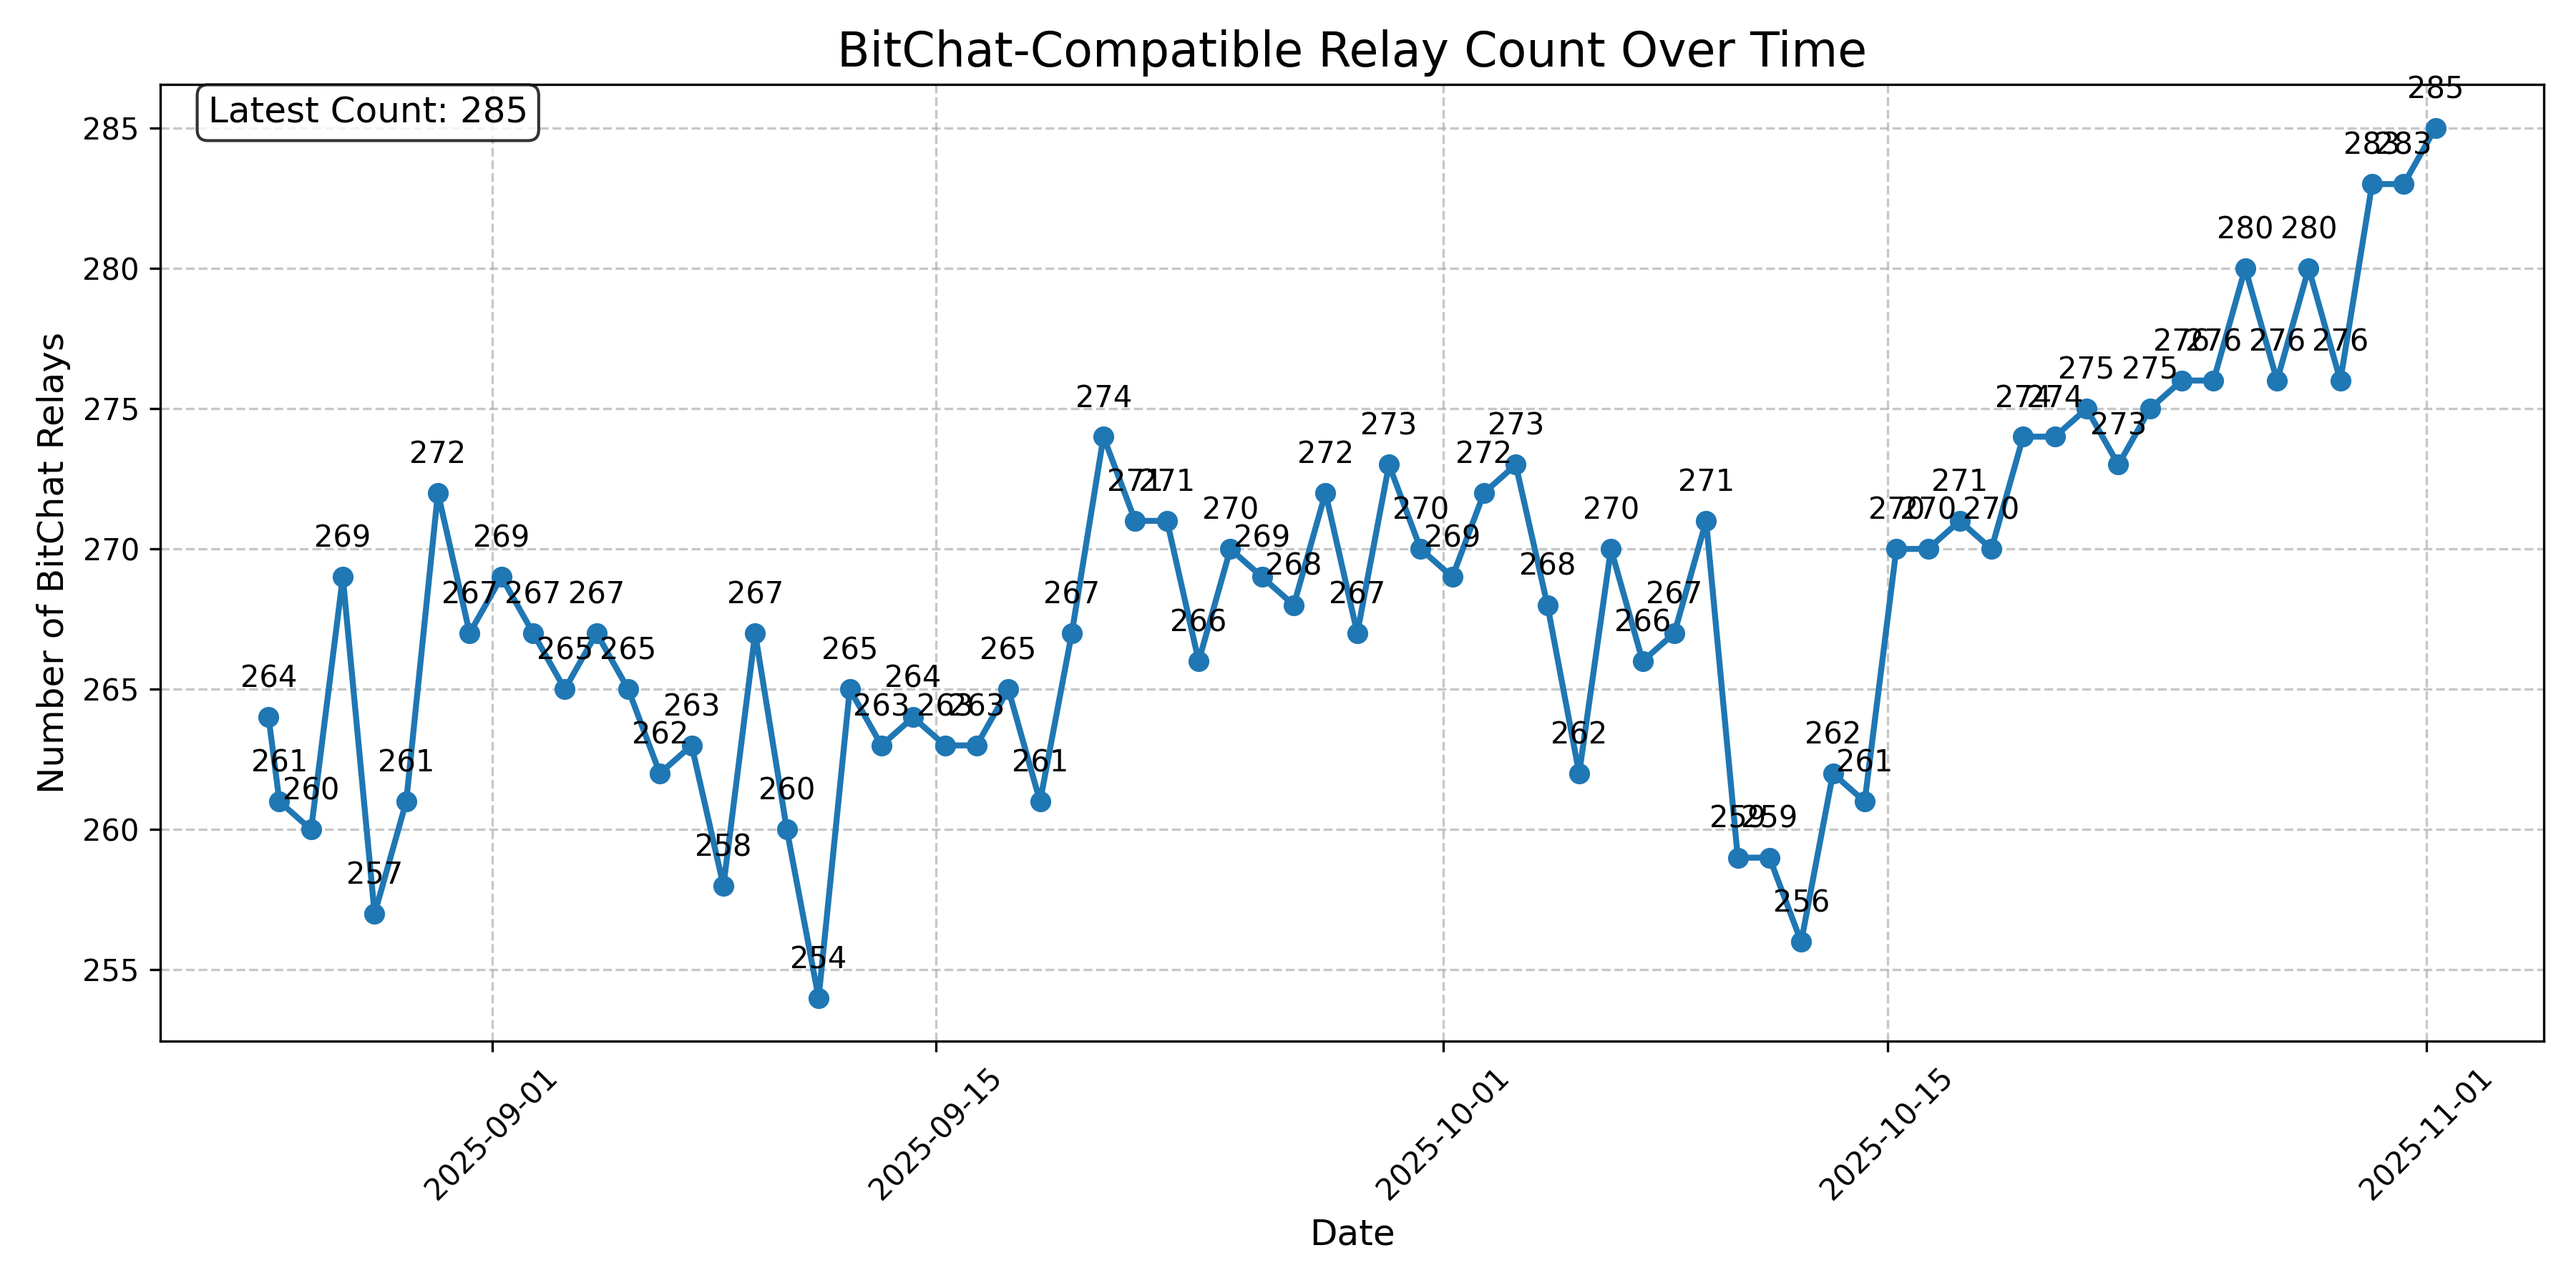
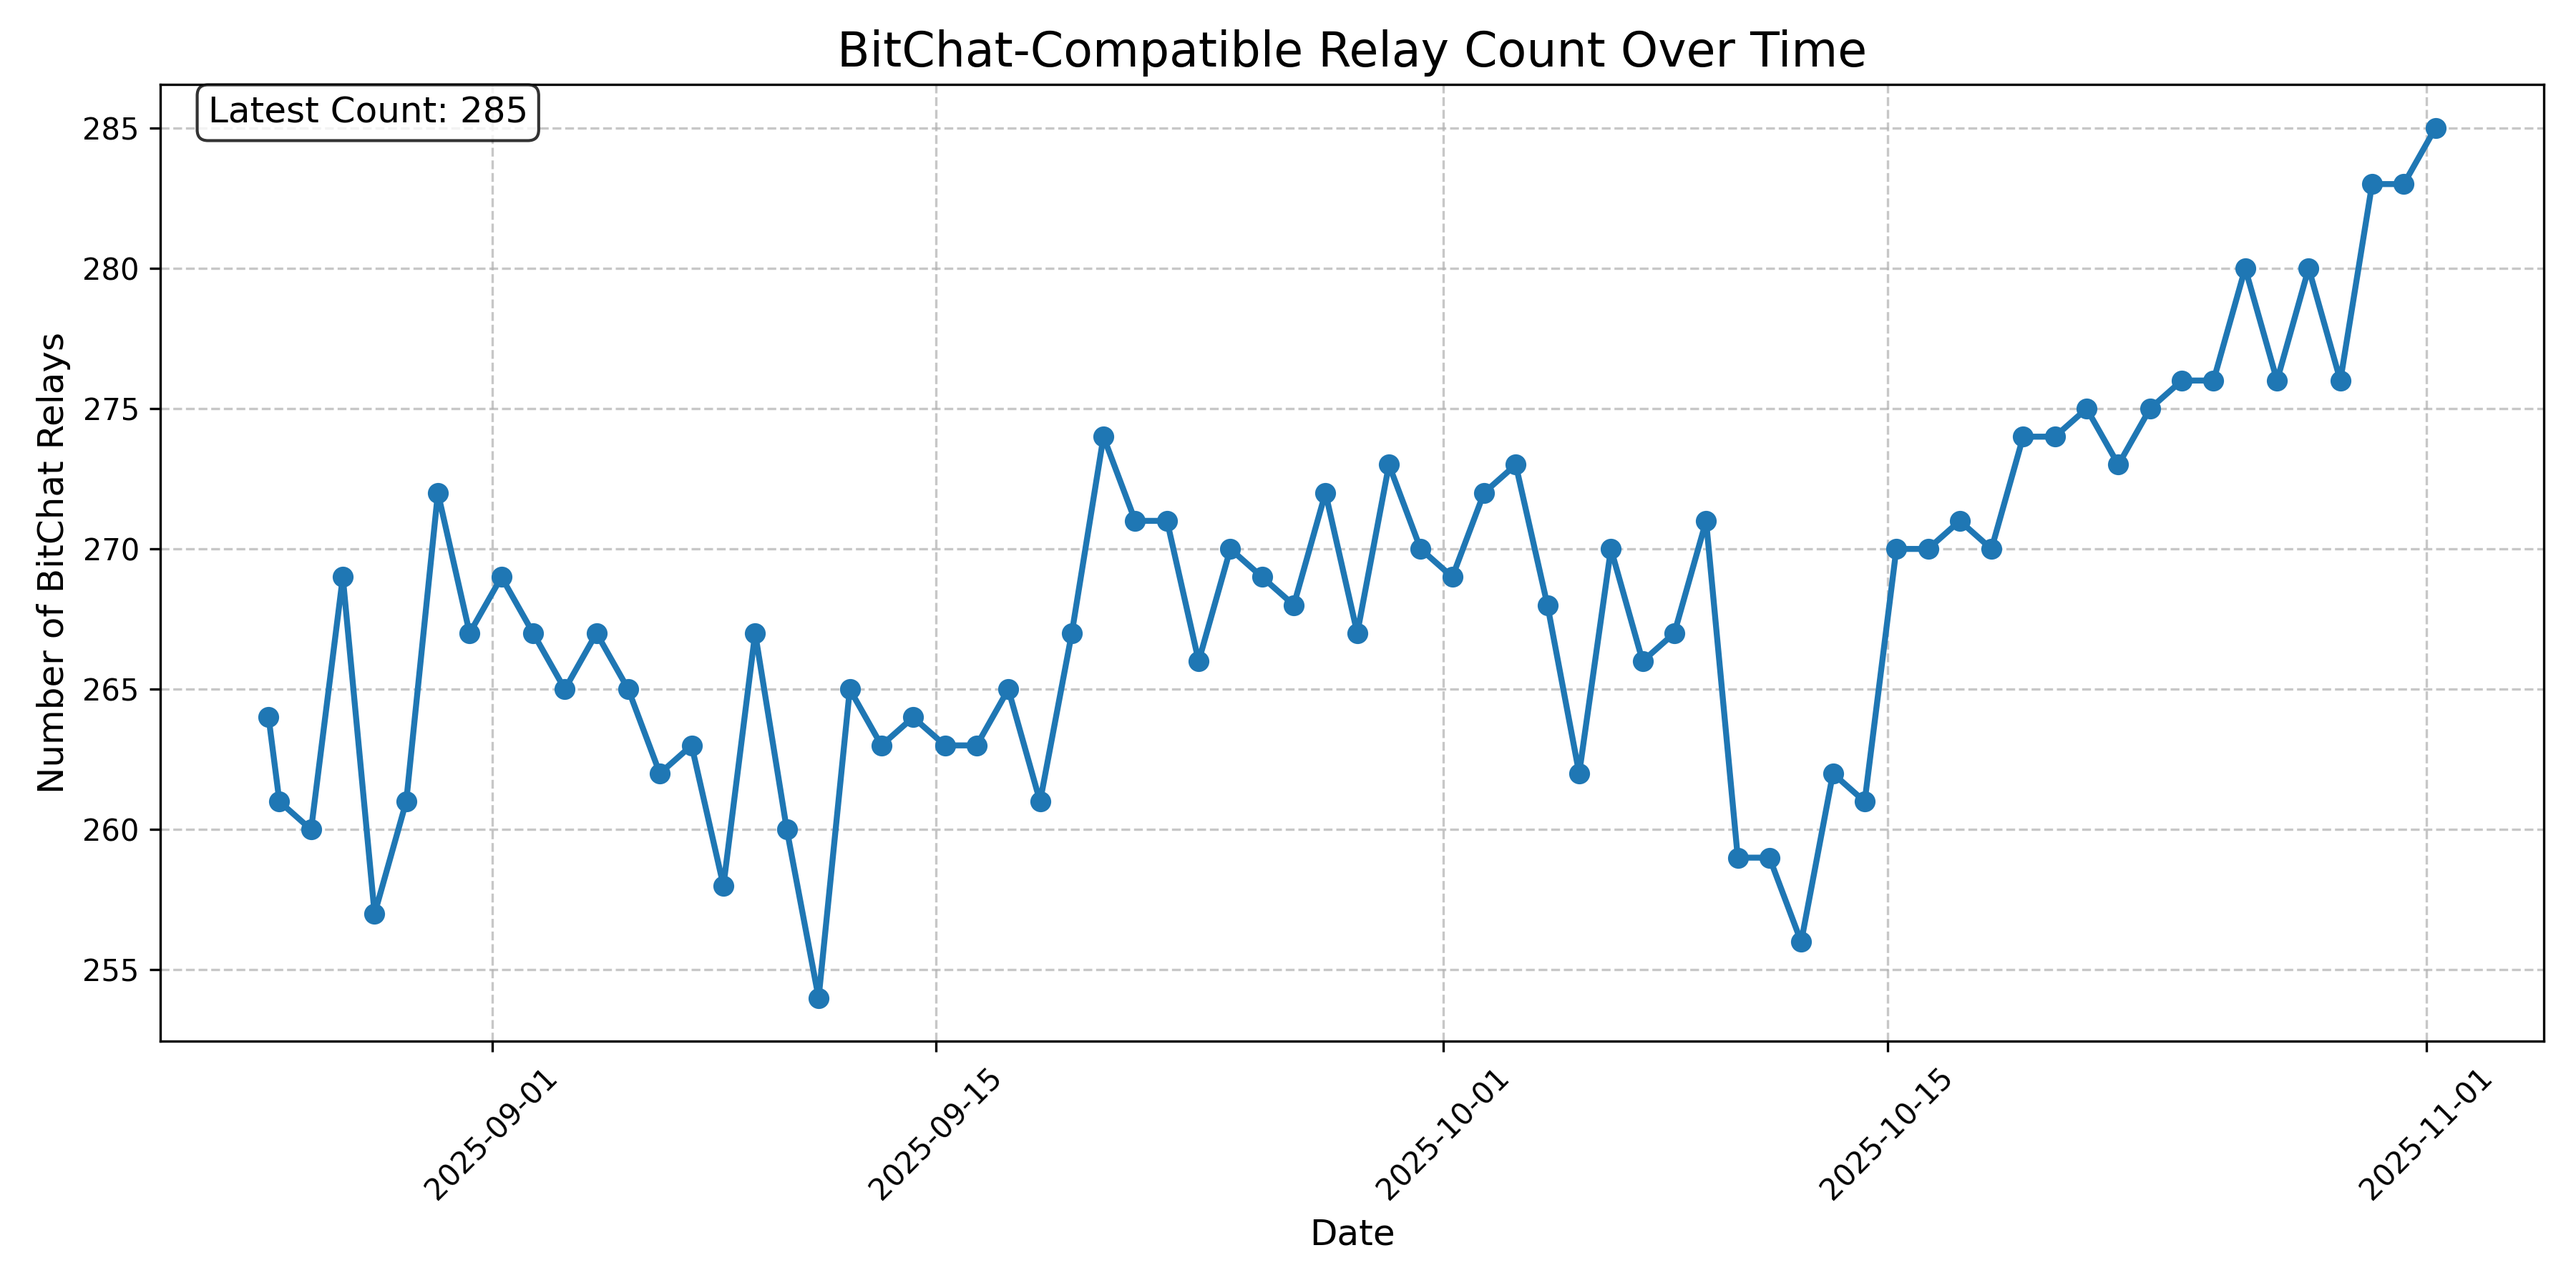
Remove overlapping data point labels from relay count charts

diff --git a/scripts/track_relay_counts.py b/scripts/track_relay_counts.py
@@ -124,16 +124,6 @@ def create_plot(data_frame, title, y_label, output_path):
     plt.grid(True, linestyle='--', alpha=0.7)
     plt.xticks(rotation=45)
     
-    # Add data points annotation
-    for i, row in data_frame.iterrows():
-        plt.annotate(
-            f"{row['count']}",
-            (row['date'], row['count']),
-            textcoords="offset points",
-            xytext=(0, 10),
-            ha='center'
-        )
-    
     # Add current count in the corner
     if not data_frame.empty:
         latest_count = data_frame['count'].iloc[-1]
